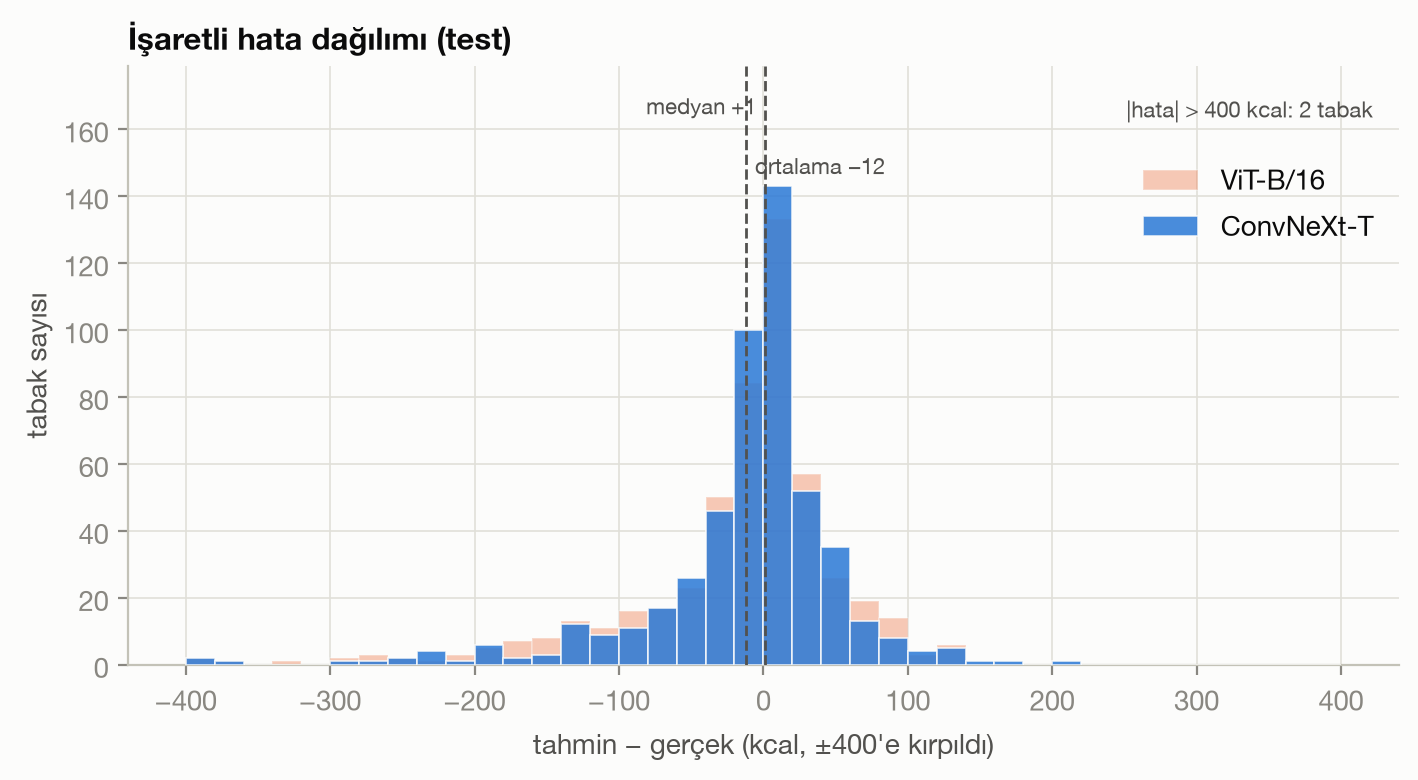
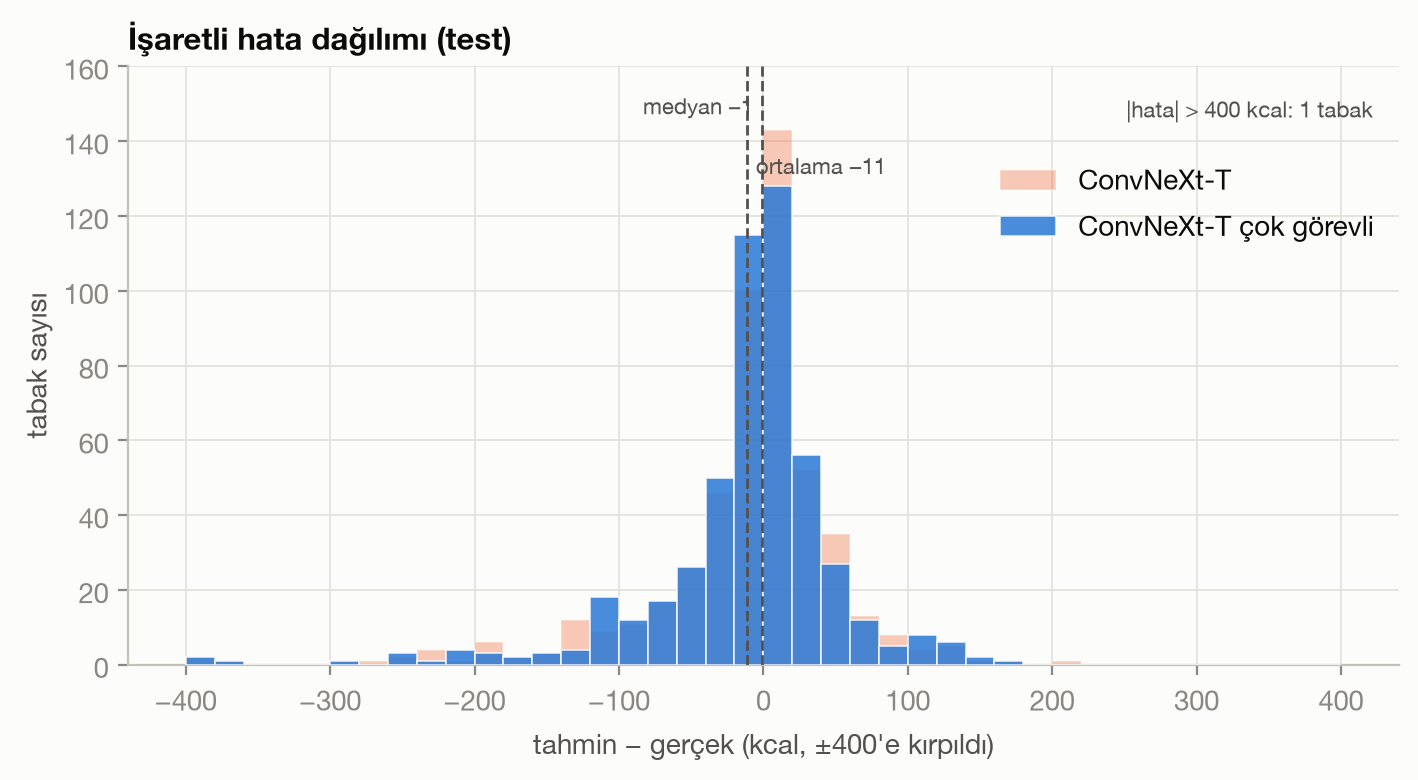
Adım 20: figürler final modellerle, ROC figürü, kod temizliği; README/context güncel

diff --git a/src/make_figures.py b/src/make_figures.py
@@ -17,11 +17,12 @@ görüntüleri kullanır (yoksa gri kutu çizilir). Her figür için README'ye y
     eval_model_karsilastirma.png  test MAE + %95 güven aralığı, literatür referans çizgileri
     eval_egitim_egrileri.png      doğrulama skoru – epoch
     eval_en_kotu_tabaklar.png     en kötü 20 tabak ızgarası, eval_en_kotu_20.csv → Adım 16
+    eval_roc.png                  ROC eğrileri (bire-karşı-hepsi): final sınıflandırıcının 25 sınıfı + modellerin makro
+                                  ortalaması; results/probs/ varsa (notebook 13)
     tablo1.md, tablo2.md, tablo3_kalori_araligi.md   rapora yapıştırılacak markdown tablolar
 
-TODO (Adım 16): Grad-CAM / attention haritaları için kanca — en kötü 20 tabağın kimlikleri eval_en_kotu_20.csv'de;
-checkpoint indirildikten sonra (Release `checkpoints`, ~111 MB) `src.models.build_model` ile yüklenip bu kimlikler
-üzerinde çalıştırılacak. Bu betik checkpoint gerektirmez.
+Grad-CAM (Adım 16) ayrı betikte: `python -m src.gradcam --ckpt checkpoints/<model>.pt` (checkpoint gerekir);
+en kötü 20 tabağın kimlikleri eval_en_kotu_20.csv'de. Bu betik checkpoint gerektirmez.
 """
 import argparse
 import math
@@ -31,7 +32,7 @@ import matplotlib.pyplot as plt
 import numpy as np
 import pandas as pd
 from PIL import Image
-from sklearn.metrics import confusion_matrix, f1_score
+from sklearn.metrics import auc, confusion_matrix, f1_score, roc_curve
 
 from . import plot_style
 from .config import CALORIE_BIN_EDGES, N5K_DIR, RESULTS_DIR
@@ -379,6 +380,40 @@ def fig_training_curves(hist_reg, hist_cls):
     return fig
 
 
+def macro_roc(y_true, probs, grid=None):
+    """Bire-karşı-hepsi ROC: sınıf eğrileri ve ortak FPR ızgarasında makro ortalama eğri (+ makro AUC)."""
+    grid = np.linspace(0, 1, 1001) if grid is None else grid
+    y_true, probs = np.asarray(y_true), np.asarray(probs, dtype=float)
+    curves, tprs = [], []
+    for k in range(probs.shape[1]):
+        fpr, tpr, _ = roc_curve(y_true == k, probs[:, k])
+        curves.append((fpr, tpr))
+        tprs.append(np.interp(grid, fpr, tpr))
+    mean_tpr = np.mean(tprs, axis=0)
+    mean_tpr[0] = 0.0
+    return curves, grid, mean_tpr, float(np.mean([auc(f, t) for f, t in curves]))
+
+
+def fig_roc(main_name, main_curves, macro):
+    """Sol: ana modelin 25 sınıf eğrisi (gri) + makro ortalaması. Sağ: modellerin makro eğrileri, FPR log ekseninde
+    (AUC'lar 0,997–0,998 olduğundan farklar yalnızca düşük FPR'de görünür)."""
+    fig, (a1, a2) = plt.subplots(1, 2, figsize=(10, 4.4))
+    for fpr, tpr in main_curves:
+        a1.plot(fpr, tpr, color=AXIS, lw=0.8)
+    grid, mean_tpr, mauc = macro[main_name]
+    a1.plot(grid, mean_tpr, color=SERIES[0], label=f"makro ortalama (AUC {fmt_tr(mauc, 3)})")
+    a1.plot([0, 1], [0, 1], ls=":", color=INK["muted"], lw=1)
+    a1.set(xlabel="Yanlış pozitif oranı", ylabel="Doğru pozitif oranı", title=f"ROC, sınıf başına — {main_name}")
+    a1.legend(loc="lower right")
+    for i, (name, (grid, mean_tpr, mauc)) in enumerate(macro.items()):
+        a2.plot(grid[1:], mean_tpr[1:], color=SERIES[i % len(SERIES)], lw=1.6, label=f"{name} ({fmt_tr(mauc, 3)})")
+    a2.set_xscale("log")
+    a2.set(xlim=(1e-3, 1), xlabel="Yanlış pozitif oranı (log)", ylabel="Doğru pozitif oranı", title="Makro ROC, modeller")
+    a2.legend(loc="lower right", fontsize=8)
+    fig.tight_layout()
+    return fig
+
+
 def fig_worst_dishes(worst, img_dir, ncols=5, w=2.6):
     """worst: id, y_true, y_pred, abs_error, has_fish. Görüntü yoksa gri kutu."""
     ncols = max(1, min(ncols, len(worst)))
@@ -406,10 +441,10 @@ def fig_worst_dishes(worst, img_dir, ncols=5, w=2.6):
 
 def parse_args(argv=None):
     ap = argparse.ArgumentParser(description="Adım 15 değerlendirme figürleri ve Tablo 1–3 (results/ kayıtlarından).")
-    ap.add_argument("--cls-model", default="vit_b16_cls", help="karışıklık matrisi ve sınıf F1 için model")
+    ap.add_argument("--cls-model", default="vit_b16_384_cls", help="karışıklık matrisi ve sınıf F1 için model")
     ap.add_argument("--cls-second", default="convnext_tiny_cls", help="sınıf F1 üstüne bindirilecek ikinci model ('' = yok)")
-    ap.add_argument("--reg-model", default="convnext_tiny_reg", help="saçılım, histogram ve en kötü tabaklar için model")
-    ap.add_argument("--reg-second", default="vit_b16_reg", help="histograma bindirilecek ikinci model ('' = yok)")
+    ap.add_argument("--reg-model", default="convnext_tiny_reg_mt", help="saçılım, histogram ve en kötü tabaklar için model")
+    ap.add_argument("--reg-second", default="convnext_tiny_reg", help="histograma bindirilecek ikinci model ('' = yok)")
     ap.add_argument("--worst-k", type=int, default=20)
     ap.add_argument("--results-dir", type=Path, default=RESULTS_DIR, help="results.csv, preds/, history/ burada; md/csv çıktıları buraya")
     ap.add_argument("--figures-dir", type=Path, default=None, help="varsayılan: <results-dir>/figures")
@@ -515,7 +550,22 @@ def main(argv=None):
     print(f"\nEn kötü {len(worst)} tabak → results/eval_en_kotu_20.csv  (balıklı: {int(worst.has_fish.sum())})")
     print(worst[["id", "y_true", "y_pred", "abs_error", "has_fish", "top_ingredients"]].round(0).to_string(index=False), "\n")
 
-    # 10. tablolar
+    # 10. ROC eğrileri (olasılıklar yalnızca notebook 13'ten sonra var)
+    probs_dir = results_dir / "probs"
+    roc_models = [m for m in HISTORY_CLS[::-1] if (probs_dir / f"{m}_test.npz").exists()]
+    if args.cls_model in roc_models:
+        macro, main_curves = {}, None
+        for m in roc_models:
+            d = np.load(probs_dir / f"{m}_test.npz")
+            curves, grid, mean_tpr, mauc = macro_roc(d["y_true"], d["probs"])
+            macro[fig_name(m)] = (grid, mean_tpr, mauc)
+            if m == args.cls_model:
+                main_curves = curves
+        save(fig_roc(cls_name, main_curves, macro), "eval_roc")
+        caption("eval_roc", f"ROC eğrileri (Food-101 test, bire-karşı-hepsi). Sol: {cls_name}, 25 sınıf (gri) ve makro "
+                "ortalama. Sağ: beş modelin makro eğrisi, yanlış pozitif oranı log ölçekte; parantezde makro ROC-AUC.")
+
+    # 11. tablolar
     for name, text in [("tablo1.md", tablo1_md(results)), ("tablo2.md", tablo2_md(results)),
                        ("tablo3_kalori_araligi.md", tablo3_md(results)),
                        ("tablo_ablation.md", tablo_ablation_md(results))]:

diff --git a/src/gradcam.py b/src/gradcam.py
@@ -1,8 +1,8 @@
 """Grad-CAM: kalori modelinin tabağın neresine baktığı (Adım 15 figürü).
 
 Kullanım:
-    python -m src.gradcam --ckpt checkpoints/convnext_tiny_reg.pt            # → results/figures/eval_gradcam.png
-    python -m src.gradcam --ckpt checkpoints/convnext_tiny_reg.pt --n 4 --device cpu
+    python -m src.gradcam --ckpt checkpoints/convnext_tiny_reg_mt.pt           # → results/figures/eval_gradcam.png
+    python -m src.gradcam --ckpt checkpoints/convnext_tiny_reg_mt.pt --n 4 --device cpu
 
 Regresyonda "sınıf skoru" yok; tahmin edilen kalorinin son evre özellik haritasına göre gradyanı alınır.
 Isı haritası kırmızıysa o bölge tahmini yukarı çekiyor. Hangi tabaklar: tahmin dosyasındaki en iyi n
@@ -59,7 +59,7 @@ def gradcam(model, x, layer):
 def main():
     ap = argparse.ArgumentParser(description=__doc__, formatter_class=argparse.RawDescriptionHelpFormatter)
     ap.add_argument("--ckpt", required=True)
-    ap.add_argument("--preds", default=str(RESULTS_DIR / "preds" / "convnext_tiny_reg.csv"))
+    ap.add_argument("--preds", default=str(RESULTS_DIR / "preds" / "convnext_tiny_reg_mt.csv"))
     ap.add_argument("--n", type=int, default=4, help="en iyi n + en kötü n tabak")
     ap.add_argument("--device", default="cpu", help="cpu güvenli; mps'te backward kancaları bazen boş döner")
     ap.add_argument("--out", default="eval_gradcam")
@@ -95,7 +95,7 @@ def main():
             a.set_xticks([]); a.set_yticks([]); a.grid(False)
             for sp in a.spines.values():
                 sp.set_visible(False)
-    fig.suptitle("Grad-CAM, ConvNeXt-T kalori modeli: kırmızı bölgeler tahmini yukarı çekiyor (test tabakları)", x=0.01, ha="left")
+    fig.suptitle("Grad-CAM, ConvNeXt-T çok görevli kalori modeli: kırmızı bölgeler tahmini yukarı çekiyor (test tabakları)", x=0.01, ha="left")
     fig.tight_layout()
     path = plot_style.savefig(fig, args.out, dpi=130)
     print(f"kaydedildi: {path}")

diff --git a/tests/test_make_figures.py b/tests/test_make_figures.py
@@ -114,11 +114,16 @@ def test_main_smoke_on_synthetic_data(tmp_path):
             ingr = ["ingr_1", "fish" if i % 5 == 0 else "rice", 100, c, 1, 1, 1]
             w.writerow([d, c, 150, 5, 20, 10] + ingr)
     _write_results(tmp_path / "results.csv", cls_models, reg_models)
+    (tmp_path / "probs").mkdir()
+    for m in ["vit_b16_384_cls", "convnext_tiny_cls"]:
+        probs = rng.dirichlet(np.ones(25), n_cls)
+        probs[np.arange(n_cls), y_true] += 1.0
+        np.savez(tmp_path / "probs" / f"{m}_test.npz", y_true=y_true, probs=probs / probs.sum(1, keepdims=True))
 
     captions = mf.main(["--results-dir", str(tmp_path), "--n5k-dir", str(tmp_path / "n5k")])
 
     names = {"eval_karisiklik_matrisi", "eval_sinif_f1", "eval_tahmin_gercek", "eval_hata_histogrami", "eval_aralik_mae",
-             "eval_model_karsilastirma", "eval_egitim_egrileri", "eval_en_kotu_tabaklar"}
+             "eval_model_karsilastirma", "eval_egitim_egrileri", "eval_en_kotu_tabaklar", "eval_roc"}
     assert {n for n, _ in captions} == names
     for n in names:
         assert (tmp_path / "figures" / f"{n}.png").stat().st_size > 1000
@@ -128,3 +133,15 @@ def test_main_smoke_on_synthetic_data(tmp_path):
     for name in ["tablo1.md", "tablo2.md", "tablo3_kalori_araligi.md"]:
         text = (tmp_path / name).read_text()
         assert text.startswith("| Tablo") and "," in text and "." not in text.split("\n")[2].split("|")[2]
+
+
+def test_macro_roc_matches_sklearn_macro_auc():
+    from sklearn.metrics import roc_auc_score
+    rng = np.random.default_rng(1)
+    y = np.repeat(np.arange(4), 30)
+    p = rng.dirichlet(np.ones(4), len(y))
+    p[np.arange(len(y)), y] += 0.3
+    p /= p.sum(1, keepdims=True)
+    curves, grid, mean_tpr, mauc = mf.macro_roc(y, p)
+    assert len(curves) == 4 and mean_tpr[0] == 0 and mean_tpr[-1] == pytest.approx(1)
+    assert mauc == pytest.approx(roc_auc_score(y, p, multi_class="ovr", average="macro"))

diff --git a/src/baselines.py b/src/baselines.py
@@ -54,6 +54,8 @@ def classification_baselines():
 
 
 if __name__ == "__main__":
+    import argparse
+    argparse.ArgumentParser(description=__doc__, formatter_class=argparse.RawDescriptionHelpFormatter).parse_args()
     calorie_baselines()
     if (FOOD101_DIR / "food-101" / "meta" / "train.json").exists():
         classification_baselines()

diff --git a/src/eval_cls.py b/src/eval_cls.py
@@ -11,7 +11,6 @@ import argparse
 from pathlib import Path
 
 import numpy as np
-import torch
 
 from .config import IMG_SIZE, RESULTS_DIR, get_device
 from .data import FOOD101_CLASSES, Food101Subset

diff --git a/README.md b/README.md
@@ -173,35 +173,42 @@ Gemini 3.5 Flash-Lite, 512 px JPEG, sıcaklık 0, sabit prompt (kalemler + gram 
 
 ### Değerlendirme bulguları (Adım 15, `python -m src.make_figures` + `python -m src.gradcam`)
 
-Bütün figürler `results/preds/` ve `results/history/` dosyalarından üretilir; GPU ve checkpoint gerekmez (yalnızca Grad-CAM için `checkpoints/convnext_tiny_reg.pt`). Rapora yapıştırmaya hazır tablolar: `results/tablo1.md`, `tablo2.md` (precision/recall ve RMSE dahil), `tablo3_kalori_araligi.md` (ROC-AUC sütunuyla: final model 0,960, VLM 0,884, naif 0,500), `tablo_ablation.md` (Adım 17). Tablo 1'in ROC-AUC sütunu notebook 13 ile doldu (0,997–0,998).
+Bütün figürler `results/preds/` ve `results/history/` dosyalarından üretilir; GPU ve checkpoint gerekmez (yalnızca Grad-CAM için `checkpoints/convnext_tiny_reg_mt.pt`). **13 Kasım (Adım 20):** figürler final modellerle yeniden üretildi (kalori: ConvNeXt-T çok görevli, sınıflandırma: ViT-B/16 384 px; betiklerin varsayılanı artık bunlar) ve ROC figürü eklendi. Rapora yapıştırmaya hazır tablolar: `results/tablo1.md`, `tablo2.md` (precision/recall ve RMSE dahil), `tablo3_kalori_araligi.md` (ROC-AUC sütunuyla: final model 0,960, VLM 0,884, naif 0,500), `tablo_ablation.md` (Adım 17). Tablo 1'in ROC-AUC sütunu notebook 13 ile doldu (0,997–0,998).
 
-| Tablo 3 · Kalori aralığı (düşük < 116,1 ≤ orta < 313,7 ≤ yüksek kcal, test) | Doğruluk | Precision (macro) | Recall (macro) | Macro-F1 [%95 GA] |
-| --- | --- | --- | --- | --- |
-| Naif: train ortalaması | %31,4 | 0,104 | 0,333 | 0,159 [0,142–0,174] |
-| Donmuş ResNet-50 → XGBoost | %74,2 | 0,771 | 0,742 | 0,747 [0,708–0,785] |
-| ResNet-50 (timm başlatması) | %80,5 | 0,814 | 0,804 | 0,806 [0,768–0,839] |
-| ResNet-50 çok görevli | %79,9 | 0,808 | 0,798 | 0,799 [0,763–0,832] |
-| EfficientNet-B0 | %81,7 | 0,821 | 0,815 | 0,817 [0,781–0,848] |
-| ViT-B/16 | %86,0 | 0,861 | 0,859 | 0,859 [0,827–0,889] |
-| ConvNeXt-T | %86,2 | 0,864 | 0,861 | 0,861 [0,828–0,889] |
+| Tablo 3 · Kalori aralığı (düşük < 116,1 ≤ orta < 313,7 ≤ yüksek kcal, test) | Doğruluk | Precision (macro) | Recall (macro) | Macro-F1 [%95 GA] | ROC-AUC (OvR, macro) |
+| --- | --- | --- | --- | --- | --- |
+| Naif: train ortalaması | %31,4 | 0,104 | 0,333 | 0,159 [0,142–0,174] | 0,500 |
+| Donmuş ResNet-50 → XGBoost | %74,2 | 0,771 | 0,742 | 0,747 [0,708–0,785] | 0,899 |
+| ResNet-50 (timm başlatması) | %80,5 | 0,814 | 0,804 | 0,806 [0,768–0,839] | 0,933 |
+| ResNet-50 (erken durdu, 14/30) | %79,1 | 0,804 | 0,790 | 0,790 [0,756–0,826] | 0,922 |
+| ResNet-50 çok görevli | %79,9 | 0,808 | 0,798 | 0,799 [0,763–0,832] | 0,936 |
+| EfficientNet-B0 (hatalı başlatma) | %59,8 | 0,611 | 0,595 | 0,600 [0,558–0,639] | 0,797 |
+| EfficientNet-B0 | %81,7 | 0,821 | 0,815 | 0,817 [0,781–0,848] | 0,943 |
+| ViT-B/16 | %86,0 | 0,861 | 0,859 | 0,859 [0,827–0,889] | 0,958 |
+| ConvNeXt-T | %86,2 | 0,864 | 0,861 | 0,861 [0,828–0,889] | 0,956 |
+| ConvNeXt-T çok görevli | %87,0 | 0,872 | 0,869 | 0,869 [0,837–0,897] | 0,960 |
+| ConvNeXt-T, log1p hedef | %87,2 | 0,875 | 0,871 | 0,871 [0,839–0,899] | 0,962 |
+| ConvNeXt-T, artırmasız | %85,6 | 0,862 | 0,856 | 0,857 [0,825–0,885] | 0,953 |
+| VLM sıfır-atış (Gemini 3.5 Flash-Lite) | %75,7 | 0,750 | 0,752 | 0,751 [0,713–0,784] | 0,884 |
 
 | Figür | Dosya (`results/figures/`) | Açıklama |
 | --- | --- | --- |
-| Karışıklık matrisi | `eval_karisiklik_matrisi.png` | ViT-B/16, Food-101 25 sınıf, test; satırlar gerçek sınıf, hücreler satır içi yüzde; yalnızca ≥ %2'lik karışmalar yazılı |
-| Sınıf başına F1 | `eval_sinif_f1.png` | ViT-B/16 çubuk, ConvNeXt-T nokta; en zor sınıflar en altta (apple pie 0,89) |
-| Tahmin–gerçek | `eval_tahmin_gercek.png` | ConvNeXt-T test tahminleri; gölgeli bant ±100 kcal; turuncu = 23 balıklı tabak |
-| Hata histogramı | `eval_hata_histogrami.png` | İşaretli hata (tahmin − gerçek), ConvNeXt-T ve ViT-B/16; ortalama −12, medyan +1 kcal |
+| Karışıklık matrisi | `eval_karisiklik_matrisi.png` | ViT-B/16 384 px, Food-101 25 sınıf, test; satırlar gerçek sınıf, hücreler satır içi yüzde; yalnızca ≥ %2'lik karışmalar yazılı |
+| Sınıf başına F1 | `eval_sinif_f1.png` | ViT-B/16 384 px çubuk, ConvNeXt-T nokta; en zor sınıflar en altta (apple pie 0,91) |
+| ROC eğrileri | `eval_roc.png` | Sol: ViT-B/16 384 px, 25 sınıfın bire-karşı-hepsi eğrisi + makro ortalama (AUC 0,998). Sağ: beş modelin makro eğrisi, FPR log ölçekte (farklar yalnızca FPR < %1'de görünür) |
+| Tahmin–gerçek | `eval_tahmin_gercek.png` | ConvNeXt-T çok görevli test tahminleri; gölgeli bant ±100 kcal; turuncu = 23 balıklı tabak |
+| Hata histogramı | `eval_hata_histogrami.png` | İşaretli hata (tahmin − gerçek), ConvNeXt-T çok görevli ve tek görevli; ortalama −11, medyan −1 kcal |
 | Aralık başına MAE | `eval_aralik_mae.png` | Gerçek kalori aralığına göre test MAE, tüm kalori modelleri (`results/eval_aralik_mae.csv`) |
 | Model karşılaştırma | `eval_model_karsilastirma.png` | Test MAE + %95 GA; literatür çizgileri 80,7 / 70,6 ve 37–40 bandı |
 | Eğitim eğrileri | `eval_egitim_egrileri.png` | Val skoru – epoch; nokta = saklanan en iyi epoch |
-| En kötü 20 tabak | `eval_en_kotu_tabaklar.png` | ConvNeXt-T, mutlak hata; liste `results/eval_en_kotu_20.csv` |
-| Grad-CAM | `eval_gradcam.png` | ConvNeXt-T; en iyi 4 ve en kötü 4 test tabağı, kırmızı = tahmini yukarı çeken bölge |
+| En kötü 20 tabak | `eval_en_kotu_tabaklar.png` | ConvNeXt-T çok görevli, mutlak hata; liste `results/eval_en_kotu_20.csv` |
+| Grad-CAM | `eval_gradcam.png` | ConvNeXt-T çok görevli; en iyi 4 ve en kötü 4 test tabağı, kırmızı = tahmini yukarı çeken bölge |
 
-1. **Hata kaloriyle birlikte büyüyor.** ConvNeXt-T'de aralık başına MAE: düşük 16, orta 32, yüksek 76 kcal (naif: 201 / 54 / 241). Modeller arasındaki fark en çok yüksek aralıkta açılıyor.
-2. **En kötü 20 tabağın 18'i yüksek kalorili tabakların eksik tahmini** (gerçek 380–1013, tahmin 120–768 kcal). Ortak örüntü: yeşilliğin altına gizlenmiş 100–240 g tavuk/sığır/domuz (ör. 902 → 424 kcal, 205 g tavuk + brokoli). Tek fazla tahmin var (117 → 323). Grad-CAM bunu doğruluyor: kötü tahminlerde model yemeğin üstündeki yeşilliğe bakıyor, altındaki proteini görmüyor. Balık en kötü 20'nin yalnızca 3'ünde, yani ortalama balık hatasını yükseltiyor ama en büyük hataların sebebi değil.
-3. **Kardeş tabaklar listede çift çift görünüyor:** üç çift (`1565811139/1565811061`, `1566414412/1566414342`, `1563389626/1563389600`) aynı tabağın art arda halleri. Bir tabak (`1558373159`, 1013 kcal) malzeme listesinde 142 g "deprecated" içeriyor → etiket kalitesi sorunu, raporda örnek olarak verilebilir.
-4. **Sınıflandırmada hatalar beklenen çiftlerde toplanıyor:** apple pie → pancakes 7, caesar → greek salad 7, fried rice ↔ risotto 7+6, carbonara → bolognese 6, lasagna → omelette 6, pizza → lasagna 6 (`results/eval_karisan_ciftler.csv`). Apple pie en zayıf sınıf (recall %85) ve ilk 10 çiftin 4'ünde var; EDA'da bilerek bırakılan karışabilir çiftler tam da hatanın toplandığı yer.
-5. **Tablo 3'te ConvNeXt-T ile ViT-B/16 ayırt edilemiyor** (0,861 ve 0,859, GA'lar üst üste); üç aralıklı sınıflandırma MAE'deki farkı görmeye yetmiyor.
+1. **Hata kaloriyle birlikte büyüyor.** Final modelde (ConvNeXt-T çok görevli) aralık başına MAE: düşük 16, orta 31, yüksek 73 kcal (naif: 201 / 54 / 241). Modeller arasındaki fark en çok yüksek aralıkta açılıyor.
+2. **En kötü 20 tabağın 19'u eksik tahmin** (gerçek 380–1051, tahmin 108–867 kcal; final model, tek görevli modelin listesiyle 17 ortak). Ortak örüntü: yeşilliğin altına gizlenmiş 100–240 g tavuk/sığır/domuz (ör. 902 → 428 kcal, 205 g tavuk + brokoli). Tek fazla tahmin var (252 → 419, brownie). Grad-CAM bunu doğruluyor: kötü tahminlerde model yemeğin üstündeki yeşilliğe bakıyor, altındaki proteini görmüyor. Balık en kötü 20'nin yalnızca 2'sinde, yani ortalama balık hatasını yükseltiyor ama en büyük hataların sebebi değil.
+3. **Kardeş tabaklar listede çift çift görünüyor:** üç çift (`1565811139/1565811061`, `1566414412/1566414342`, `1560367952/1560367980`) aynı tabağın art arda halleri. Bir tabak (`1558373159`, 1013 kcal) malzeme listesinde 142 g "deprecated" içeriyor → etiket kalitesi sorunu, raporda örnek olarak verilebilir.
+4. **Sınıflandırmada hatalar beklenen çiftlerde toplanıyor:** ViT-B/16 384 px'te fried rice ↔ risotto 7+7, apple pie → pancakes 6, hamburger → hot dog 6, ice cream ↔ apple pie 6+5, lasagna → apple pie 6, greek → caesar salad 5 (`results/eval_karisan_ciftler.csv`). Apple pie en zayıf sınıf (F1 0,91, recall %92) ve ilk 10 çiftin 4'ünde var; EDA'da bilerek bırakılan karışabilir çiftler tam da hatanın toplandığı yer.
+5. **Tablo 3'te en iyi ConvNeXt-T türevleri ile ViT-B/16 ayırt edilemiyor** (0,857–0,871, GA'lar üst üste); üç aralıklı sınıflandırma MAE'deki farkı görmeye yetmiyor.
 6. **Adım 16–17 için seçilen teknikler (kanıta dayalı):** (a) yüksek kalori eksik tahmini → `log1p` hedef veya göreli kayıp ablation'ı (`train_reg.py --target log1p` hazır), kütle-farkındalı başlık (çok görevli ConvNeXt-T); (b) kardeş sızıntısı → test tabaklarını `time_groups` ile gruplayıp "dizinin ilk tabağı" ve "sonrakiler" için MAE'yi ayrı raporlamak; (c) balık MAE'si ayrı sütun olarak (yapıldı); (d) sınıflandırmada apple pie / tatlı karışmaları için hedefli augmentasyon veya daha yüksek çözünürlük (ViT 384) ablation'ı.
 
 ### Kardeş-sızıntısı ölçümü (Adım 16, `python -m src.leakage`)
@@ -247,7 +254,7 @@ EDA'daki endişe: resmi test tabaklarının %22'sinin train'de "kardeşi" var (1
 | 4 | Değerlendirme + VLM referansı | Adım 15 ✅ (figürler, Tablo 1–3) · Adım 14 ✅ (Gemini 3.5 Flash-Lite 82,1 kcal, 507 tabak) |
 | 5–6 | Final model (Adım 18) | ✅ Kalori: ConvNeXt-T çok görevli (40,3 kcal; `checkpoints/convnext_tiny_reg_mt.pt`, demo varsayılanı). Sınıflandırma: ViT-B/16 384 px (F1 0,957). Gerekçe §2 ablation madde 1 ve 4. Ekip itiraz ederse tek satırlık değişiklik |
 | 5 | İyileştirme ve ablation | Adım 16 ✅ (hata analizi §2; kardeş-sızıntısı ölçüldü, etkisi yok) · Adım 17 ✅ (`notebooks/12_ablation_kaggle_adim17.ipynb`; ablation tablosu ve bulguları §2'de) |
-| — | Tablolar, figürler, kodun temizlenmesi | Tablolar + figürler ✅ (`src/make_figures.py` ile yeniden üretilir) · kod temizliği ⬜ |
+| — | Tablolar, figürler, kodun temizlenmesi | Tablolar + figürler ✅ (`src/make_figures.py` ile yeniden üretilir; final modellerle, ROC figürü dahil) · kod temizliği ✅ (Adım 20, 13 Kasım) |
 | 6–7 | Rapor ve sunum | ⬜ Geliştirmeden sonra |
 
 **Kısaca:** Adım 1–17 bitti. En iyiler: sınıflandırmada **ViT-B/16 384 px, F1 0,957**; kaloride **ConvNeXt-T çok görevli, test MAE 40,3 kcal (PMAE %15,8)**, tek görevli ConvNeXt-T'den (41,4) anlamlı farklı değil. Ablation: veri artırması anlamlı (+4,7 kcal onsuz), `log1p` ve çok görevli başlık anlamsız fark, 384 px küçük ama anlamlı F1 kazancı ve 4 kat maliyet. VLM referansı (Gemini 3.5 Flash-Lite) **82,1 kcal**: literatürdeki 80,7 ile tutarlı, ConvNeXt-T'den anlamlı kötü, klasik ML ile başa baş. Hata analizi: en büyük hatalar yeşilliğin altına gizlenmiş proteinli yüksek kalorili tabaklarda (Grad-CAM doğruluyor); kardeş-sızıntısı test MAE'sini iyimser yapmıyor (ölçüldü, §2). Final (Adım 18): kalori ConvNeXt-T çok görevli, sınıflandırma ViT-B/16 384 px; §1'de özet. Sıradaki: **Adım 19** (kendi fotoğraflarımız; demo hazır), **Adım 20** (toparlama).
@@ -292,9 +299,9 @@ Adımlar sırayla yapılır; her adımın bir çıktısı ve bir "bitti" kriteri
 | 19 | 9 | Demo: fotoğraf yükle → kcal (`app.py` iskeleti hazır) + kendi fotoğraflarımızla test (§7 Faz 4) | Çalışan demo, kısa bir video kaydı, `own_photos` satırları |
 | 20 | 9 | Toparlama: figürlerin son hali, kod temizliği, README | `main` dalında baştan sona çalışan kod. **Kontrol noktası 3** |
 
-**Durum (2 Kasım):** Adım 1–18 ✅ · Adım 19 web demosu ✅ yayında (fotoğraflar bekleniyor) · Adım 20 ⏳ · Teslim kuralları §9'da; ROC-AUC (notebook 13) ✅ 13 Kasım · Kontrol noktası 1 ✅ · Kontrol noktası 2 ✅
+**Durum (2 Kasım):** Adım 1–18 ✅ · Adım 19 web demosu ✅ yayında (fotoğraflar bekleniyor) · Adım 20 ✅ kod + figürler (README sadeleştirme fotoğraflardan sonra) · Teslim kuralları §9'da; ROC-AUC (notebook 13) ✅ 13 Kasım · Kontrol noktası 1 ✅ · Kontrol noktası 2 ✅
 
-**Adım 18 — final model (1 Kasım):** kalori için **ConvNeXt-T çok görevli** (`convnext_tiny_reg_mt`: 40,3 kcal; tek görevliyle fark anlamsız, kütle + makro çıktıları bedava), sınıflandırma için **ViT-B/16 384 px** (0,957; hız gerekiyorsa ConvNeXt-T 0,941 ile 6,5 kat hızlı). Final test ölçümleri `results.csv`'de (Adım 17 satırları, yeniden ölçüm gerekmedi: test bir kez, Kaggle'da ölçüldü); özet §1'de, "Bu çalışma" satırı §2 Hedeflerimiz'de. Checkpoint `checkpoints/convnext_tiny_reg_mt.pt` Mac'te (git dışı; Release'ten `GH_TOKEN=$(gh auth token) python scripts/share_checkpoint.py download convnext_tiny_reg_mt.pt`). Demo (`python app.py`) bu modelle doğrulandı: kalori CSV'deki tahminle birebir, altta kütle ve makrolar görünüyor. Adım 15'teki figürler ve hata analizi tek görevli ConvNeXt-T içindir; iki modelin tahminleri %99,3 korelasyonlu, "en kötü 20" listesinin 17'si ortak, bu yüzden analiz final model için de geçerli ve figürler yeniden üretilmedi (ekip isterse `python -m src.make_figures --reg-model convnext_tiny_reg_mt --reg-second convnext_tiny_reg` ve `python -m src.gradcam --ckpt checkpoints/convnext_tiny_reg_mt.pt`).
+**Adım 18 — final model (1 Kasım):** kalori için **ConvNeXt-T çok görevli** (`convnext_tiny_reg_mt`: 40,3 kcal; tek görevliyle fark anlamsız, kütle + makro çıktıları bedava), sınıflandırma için **ViT-B/16 384 px** (0,957; hız gerekiyorsa ConvNeXt-T 0,941 ile 6,5 kat hızlı). Final test ölçümleri `results.csv`'de (Adım 17 satırları, yeniden ölçüm gerekmedi: test bir kez, Kaggle'da ölçüldü); özet §1'de, "Bu çalışma" satırı §2 Hedeflerimiz'de. Checkpoint `checkpoints/convnext_tiny_reg_mt.pt` Mac'te (git dışı; Release'ten `GH_TOKEN=$(gh auth token) python scripts/share_checkpoint.py download convnext_tiny_reg_mt.pt`). Demo (`python app.py`) bu modelle doğrulandı: kalori CSV'deki tahminle birebir, altta kütle ve makrolar görünüyor. Adım 15 figürleri ve hata analizi 13 Kasım'da (Adım 20) final modellerle yeniden üretildi; tek görevli modelin en kötü 20 listesiyle 17 tabak ortak, bulgular değişmedi (§2 "Değerlendirme bulguları").
 
 **Sıradaki adım:**
 0. **Adım 19 fotoğrafları** (tek eksik sizden): 15–20 tabak fotoğrafı + tartı (§7 Faz 4). Fotoğraflar `own_photos/` + `labels.csv`'ye konunca `python -m src.eval_own_photos --ckpt checkpoints/convnext_tiny_reg_mt.pt --model convnext_tiny_reg_mt` sonucu `results.csv`'ye `own_photos`, `own_photos_ust`, `own_photos_yan` satırları olarak yazar. Demo: `python app.py` (Mac'te) veya Vercel'deki statik sürüm (§7 "Web demosu"; Vercel projesini kullanıcı bağlar: Root Directory `web`).
@@ -682,6 +689,7 @@ Kaynak: `Yapay_Zeka_Proje_Teslim_ve_Sunum_Kurallari.docx` (hoca, 2 Kasım). Tesl
 
 | Tarih | Kim | Son tamamlanan adım | Yarım kalan iş / sıradaki adım | Notlar (değişen ayarlar, sorunlar) |
 | --- | --- | --- | --- | --- |
+| 2026-11-13 | traldo | Adım 20 (kod + figürler): figürler final modellerle (ViT-B/16 384 px, ConvNeXt-T çok görevli) yeniden üretildi, `eval_roc.png` eklendi, Grad-CAM final modelle; `make_figures`/`gradcam` varsayılanları final modeller; kullanılmayan import ve eskimiş TODO temizlendi; tüm CLI'lar `--help` ile açılıyor; 64 test | Adım 19 fotoğrafları → sonra README'nin rapor için son hali · rapor/sunum (ekip yazar) | `src.baselines` daha önce argüman almıyordu: `--help` bile baseline'ları yeniden çalıştırıp `results.csv`'ye yinelenen satır yazıyordu; artık argparse var. Bulgu sayıları final modele göre güncellendi (en kötü 20: 19 eksik tahmin, 2 balıklı; apple pie F1 0,91) |
 | 2026-11-13 | traldo | Notebook 13 ✅ (Kaggle): 5 sınıflandırma modeli ROC-AUC ile yeniden değerlendirildi; Tablo 1'de ROC-AUC sütunu (0,997–0,998, ViT-384 0,998) | Adım 19 fotoğrafları · Adım 20 toparlama · rapor/sunum (ekip yazar) | F1'ler ilk run'larla birebir. ROC-AUC tavanda olduğu için modelleri ayırmıyor; karşılaştırma Macro-F1 ile. Olasılıklar `results/probs/*.npz` (~2 MB). İlk Kaggle denemesi push etmedi, ikincisi geçti |
 | 2026-11-02 | traldo | Hocanın teslim kuralları işlendi (§9); ROC-AUC eklendi: `metrics.macro_ovr_auc`, `bin_scores`, `results.csv`'ye `roc_auc` sütunu (33 calorie_bins satırı geri dolduruldu), Tablo 1/3'te sütun, `src/eval_cls.py`, notebook 13 | Notebook 13'ü Kaggle'da çalıştır (Tablo 1 ROC-AUC) · fotoğraflar · rapor/sunum (ekip yazar, YZ oranı ≤ %40) | Teslim: rapor + kod + sunum → yapayzekaproje80@gmail.com, tarih yok. Web demosu yayında: https://kalori-tahmini-web.vercel.app (Worker'da çıkarım, Cache API) |
 | 2026-11-01 | traldo | Adım 19 web demosu, Vercel sürümü ✅ (`web/`: tarayıcı içi ONNX, `scripts/export_onnx.py`) | kendi fotoğraflar · Adım 20 (README'yi rapora hazırla) | HF Gradio Space ücretsiz hesapta kapandı (402). Model int8 ONNX 28 MB, doğruluk kaybı yok (100 tabakta 39,9 → 40,0). Sayfa çerçevesiz HTML/JS, onnxruntime-web CDN; Gradio demosu (`app.py`) sade temayla yeniden tasarlandı, ikisi aynı sonuç kartını gösterir. `onnx`, `onnxruntime` requirements'a eklendi |
